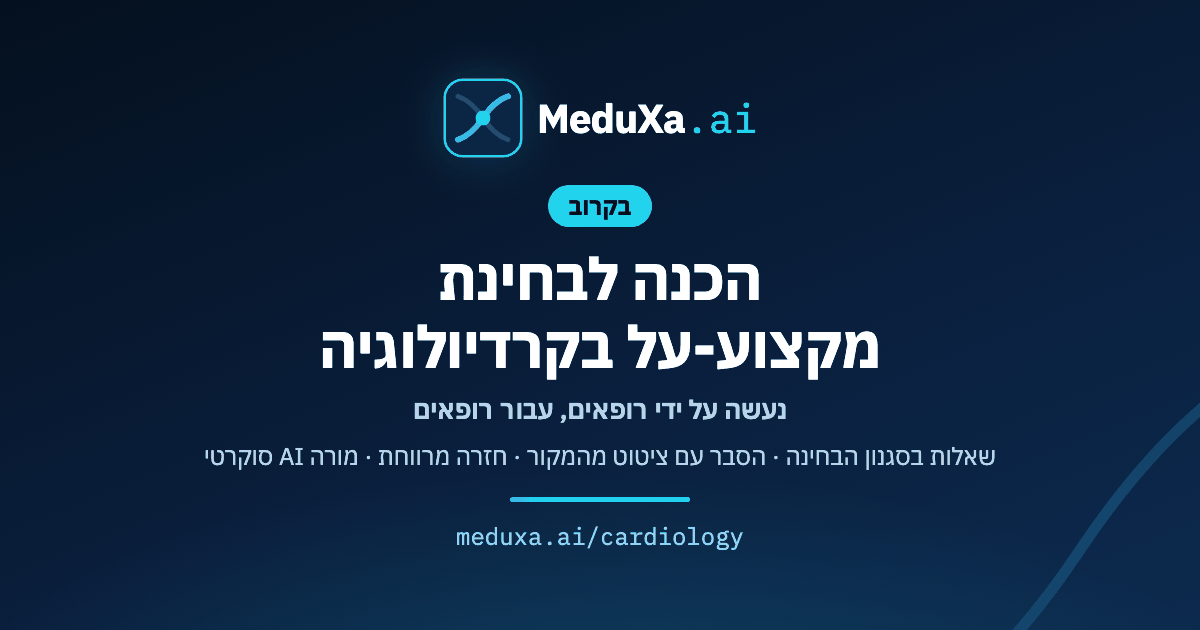
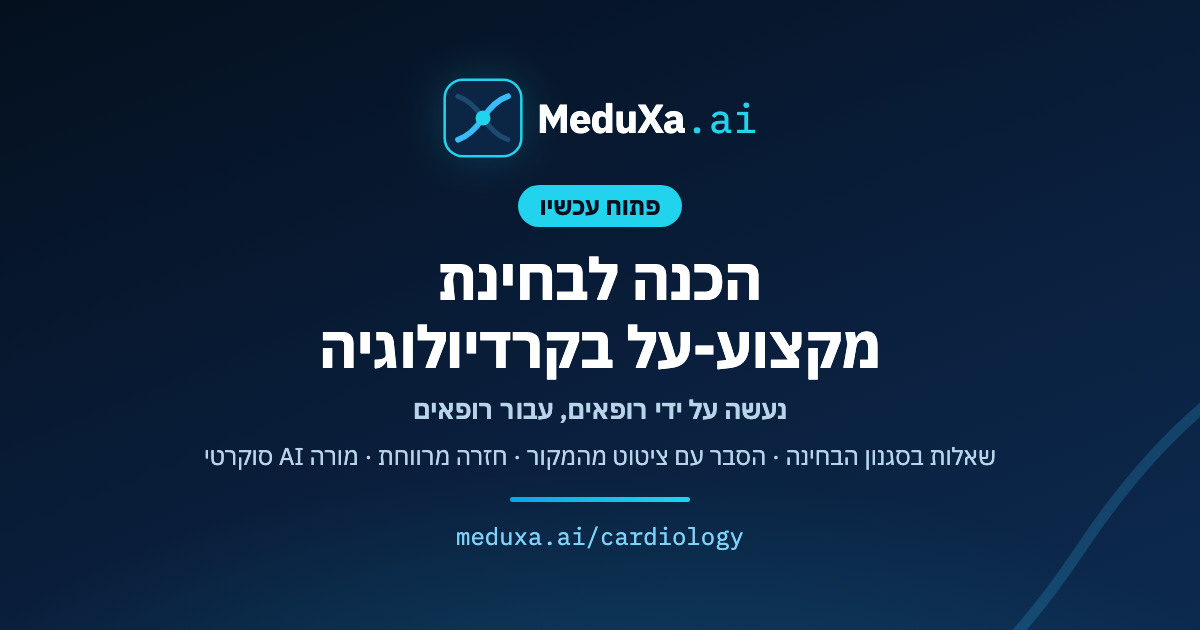
feat(cardiology): the cardiology track is live — parts A and B, free pilot
The app now serves cardiology (Stage A and Stage B), so the track flips from
"soon" to "live":
- tracks.json: status live, stage "חלקים א׳ וב׳", start-free action and an
  /en card link straight to sign-up; the exam line names part B's date
  (16.12.2026, IMA calendar) next to part A's countdown date.
- specialties/cardiology.json: live mode with app links in place of the
  waitlist form; no expert-review claim (questions are not all reviewed).
- render-specialties: a live page's sources speak in the present tense even
  without sample questions on the page.
- og/whatsapp promo images re-rendered with the "פתוח עכשיו" pill.
- Tests updated: cardiology leaves the soon lists and the closing line.

diff --git a/cardiology.html b/cardiology.html
@@ -12,32 +12,36 @@
      is served by the platform, so it 404s on a local static server. -->
 <script>
   window.va = window.va || function () { (window.vaq = window.vaq || []).push(arguments); };
-  // cardio_home_click: which link sent a visitor from this "coming soon" page back
-  // to the homepage (logo / nav). Cookieless like the rest of Vercel Analytics,
-  // so it counts regardless of the GA4/Clarity consent choice.
+  // cardio_app_click: which of the two "start" links (hero / closing) sent a
+  // visitor to the app. cardio_home_click: which link (logo / nav) sent them to
+  // the homepage. Cookieless like the rest of Vercel Analytics, so both count
+  // regardless of the GA4/Clarity consent choice.
   document.addEventListener('click', function (e) {
     var a = e.target && e.target.closest ? e.target.closest('a[data-cardio-cta]') : null;
-    if (a) window.va('event', { name: 'cardio_home_click', data: { placement: a.getAttribute('data-cardio-cta') } });
+    if (!a) return;
+    var placement = a.getAttribute('data-cardio-cta');
+    var toApp = placement === 'hero' || placement === 'closing';
+    window.va('event', { name: toApp ? 'cardio_app_click' : 'cardio_home_click', data: { placement: placement } });
   }, true);
 </script>
 <script defer src="/_vercel/insights/script.js"></script>
-<title>בקרוב: הכנה לבחינת מקצוע-על בקרדיולוגיה | MeduXa.ai</title>
+<title>הכנה לבחינת מקצוע-על בקרדיולוגיה | MeduXa.ai</title>
 <link rel="canonical" href="https://meduxa.ai/cardiology" />
-<meta name="description" content="בקרוב ב-MeduXa: הכנה לבחינת מקצוע-על בקרדיולוגיה. שאלות בסגנון הבחינה, הסבר עם ציטוט מהמקור ומורה AI סוקרטי. השאירו מייל ונעדכן כשזה נפתח." />
+<meta name="description" content="MeduXa: הכנה לבחינת מקצוע-על בקרדיולוגיה, חלק א׳ וחלק ב׳. שאלות בסגנון הבחינה, הסבר עם ציטוט מהמקור ומורה AI סוקרטי. פתוח עכשיו, אפשר להתחיל חינם." />
 <meta property="og:type" content="website" />
 <meta property="og:site_name" content="MeduXa.ai" />
-<meta property="og:title" content="בקרוב: הכנה לבחינת מקצוע-על בקרדיולוגיה | MeduXa.ai" />
-<meta property="og:description" content="שאלות בסגנון הבחינה, הסבר עם ציטוט מהמקור, חזרה מרווחת ומורה AI סוקרטי. השאירו מייל ונעדכן כשההכנה בקרדיולוגיה נפתחת." />
+<meta property="og:title" content="הכנה לבחינת מקצוע-על בקרדיולוגיה | MeduXa.ai" />
+<meta property="og:description" content="שאלות בסגנון הבחינה לחלק א׳ ולחלק ב׳, הסבר עם ציטוט מהמקור, מורה AI סוקרטי וחזרה מרווחת. פתוח עכשיו, אפשר להתחיל ללמוד חינם." />
 <meta property="og:url" content="https://meduxa.ai/cardiology" />
-<meta property="og:image" content="https://meduxa.ai/og-cardiology.png?v=1" />
+<meta property="og:image" content="https://meduxa.ai/og-cardiology.png?v=2" />
 <meta property="og:image:width" content="1200" />
 <meta property="og:image:height" content="630" />
-<meta property="og:image:alt" content="MeduXa.ai: בקרוב, הכנה לבחינת מקצוע-על בקרדיולוגיה" />
+<meta property="og:image:alt" content="MeduXa.ai: פתוח עכשיו, הכנה לבחינת מקצוע-על בקרדיולוגיה" />
 <meta property="og:locale" content="he_IL" />
 <meta name="twitter:card" content="summary_large_image" />
-<meta name="twitter:title" content="בקרוב: הכנה לבחינת מקצוע-על בקרדיולוגיה | MeduXa.ai" />
-<meta name="twitter:description" content="שאלות בסגנון הבחינה, הסבר עם ציטוט מהמקור, חזרה מרווחת ומורה AI סוקרטי. השאירו מייל ונעדכן כשההכנה בקרדיולוגיה נפתחת." />
-<meta name="twitter:image" content="https://meduxa.ai/og-cardiology.png?v=1" />
+<meta name="twitter:title" content="הכנה לבחינת מקצוע-על בקרדיולוגיה | MeduXa.ai" />
+<meta name="twitter:description" content="שאלות בסגנון הבחינה לחלק א׳ ולחלק ב׳, הסבר עם ציטוט מהמקור, מורה AI סוקרטי וחזרה מרווחת. פתוח עכשיו, אפשר להתחיל ללמוד חינם." />
+<meta name="twitter:image" content="https://meduxa.ai/og-cardiology.png?v=2" />
 <meta name="robots" content="index, follow" />
 <meta name="theme-color" content="#061225" />
 <meta name="color-scheme" content="dark" />
@@ -550,7 +554,7 @@
     </a>
     <div class="nav-r">
       <a class="nav-link" href="/" data-cardio-cta="nav">לעמוד הבית</a>
-      <a class="btn nav-cta" href="#signup">הרשמה לעדכון</a>
+      <a class="btn nav-cta" href="#start">התחילו ללמוד</a>
     </div>
   </div>
 </nav>
@@ -581,13 +585,13 @@
     </svg>
     <div class="wrap hero-grid">
       <div class="hero-copy">
-        <span class="chip enter" style="--i:0"><span class="live" aria-hidden="true"></span>בקרוב: קרדיולוגיה, מקצוע-על</span>
+        <span class="chip enter" style="--i:0"><span class="live" aria-hidden="true"></span>פתוח עכשיו: קרדיולוגיה, מקצוע-על</span>
         <h1 class="enter" style="--i:1"><span class="hero-stage">הכנה לבחינת מקצוע-על בקרדיולוגיה<span class="sr">:</span></span>הבחינה לא השתנתה.<br><span class="grad">הדרך להתכונן אליה, כן.</span></h1>
-        <p class="lead enter" style="--i:2"><strong>נעשה על ידי רופאים, עבור רופאים.</strong> שאלות בסגנון הבחינה, הסבר עם ציטוט מהמקור, ועדכון במייל כשההכנה נפתחת.</p>
-        <a class="btn hero-cta enter" style="--i:3" href="#signup">הרשמה לעדכון<i class="ph ph-arrow-left" aria-hidden="true"></i></a>
+        <p class="lead enter" style="--i:2"><strong>נעשה על ידי רופאים, עבור רופאים.</strong> שאלות בסגנון הבחינה לחלק א׳ ולחלק ב׳, הסבר עם ציטוט מהמקור, מורה סוקרטי וחזרה מרווחת.</p>
+        <a class="btn hero-cta enter" style="--i:3" href="https://app.meduxa.ai/?signup=1&amp;src=landing&amp;pl=cardio_hero" data-cardio-cta="hero">התחילו ללמוד — חינם<i class="ph ph-arrow-left" aria-hidden="true"></i></a>
         <div class="countdown enter" style="--i:4" data-exam-date="2026-12-15">
           <p class="cd-days" hidden><b data-days></b> <span data-cd-unit></span></p>
-          <p class="cd-exam">בחינה במקצוע-על — חלק א׳ · <span class="ltr-iso">15.12.2026</span></p>
+          <p class="cd-exam">בחינה במקצוע-על — חלק א׳ (חלק ב׳ למחרת, 16.12.2026) · <span class="ltr-iso">15.12.2026</span></p>
           <p class="cd-note"><a href="https://www.ima.org.il/Internship/Events.aspx" target="_blank" rel="noopener">לפי לוח הבחינות של הר״י · המועד עשוי להשתנות</a></p>
         </div>
       </div>
@@ -597,8 +601,8 @@
   <section class="sources" aria-labelledby="t-sources">
     <div class="wrap">
       <div class="sec-head" data-reveal>
-        <h2 id="t-sources">על מה יתבססו ההסברים</h2>
-        <p>המקורות המרכזיים שמהם יילקחו ההסברים והציטוטים בשאלות.</p>
+        <h2 id="t-sources">על מה מבוססים ההסברים</h2>
+        <p>המקורות המרכזיים שמהם לקוחים ההסברים והציטוטים בשאלות.</p>
       </div>
       <ul class="src-list" data-reveal style="--i:1">
         <li><i class="ph ph-book-open" aria-hidden="true"></i><span class="ltr-iso">Braunwald&#39;s Heart Disease 13e</span></li>
@@ -609,11 +613,11 @@
   </section>
 
   <section class="status" aria-labelledby="t-status">
-    <h2 id="t-status" class="sr">מה כבר קיים ומה נבנה עכשיו</h2>
+    <h2 id="t-status" class="sr">מה כבר קיים</h2>
     <div class="wrap status-grid">
       <div class="status-state" data-reveal>
         <div class="state done"><i class="ph ph-check-circle" aria-hidden="true"></i><div><h3>המנוע קיים ועובד</h3><p>מתמחים כבר מתכוננים איתו.</p></div></div>
-        <div class="state build"><i class="ph ph-hammer" aria-hidden="true"></i><div><h3>התוכן לקרדיולוגיה נבנה עכשיו</h3><p>השאירו מייל ונעדכן ברגע שזה נפתח.</p></div></div>
+        <div class="state done"><i class="ph ph-rocket-launch" aria-hidden="true"></i><div><h3>ההכנה לקרדיולוגיה פתוחה עכשיו</h3><p>פיילוט חינמי: חלק א׳ וחלק ב׳, באפליקציה.</p></div></div>
       </div>
       <p class="statement" data-reveal style="--i:1">שאלות בסגנון הבחינה, ולכל תשובה <em>הסבר שמגובה בציטוט מילה במילה מהמקור</em> שממנו היא נלקחה, כדי שתוכלו לבדוק כל טענה בעצמכם.</p>
     </div>
@@ -706,7 +710,7 @@
           <p>מצאתם טעות? מדווחים מתוך השאלה, ומקבלים חזרה עדכון מה נעשה.</p>
         </article>
       </div>
-      <p class="later"><i class="ph ph-clock" aria-hidden="true"></i><span><strong>בהמשך, לא ביום הפתיחה:</strong> ספריית שיעורים לפי נושאים ודו קרבות בין מתמחים.</span></p>
+      <p class="later"><i class="ph ph-clock" aria-hidden="true"></i><span><strong>בהמשך:</strong> דו קרבות בין מתמחים.</span></p>
     </div>
   </section>
 
@@ -734,31 +738,12 @@
     </div>
   </section>
 
-  <section id="signup" class="sec signup-band" aria-labelledby="t-signup">
-    <div class="wrap signup-grid">
+  <section id="start" class="sec signup-band" aria-labelledby="t-start">
+    <div class="wrap">
       <div class="signup-copy" data-reveal>
-        <span class="eyebrow" lang="en">EARLY ACCESS</span>
-        <h2 id="t-signup">הרשמה לעדכון: קרדיולוגיה</h2>
-        <p class="signup-for">ההרשמה היא ל<strong>הכנה לבחינת מקצוע-על בקרדיולוגיה</strong>. נכתוב לכם כשהיא נפתחת.</p>
-        <ul class="perks">
-          <li><i class="ph ph-envelope-simple" aria-hidden="true"></i><span>נכתוב לכם ברגע שההכנה בקרדיולוגיה נפתחת.</span></li>
-        </ul>
-      </div>
-      <div class="signup" data-reveal style="--i:1">
-        <!-- `required` inside a real <form> makes the browser block the submit
-             itself, so the handler never sees an unconsented address. -->
-        <form id="notifyForm">
-          <label class="field" for="notifyEmail">כתובת מייל
-            <input id="notifyEmail" dir="auto" type="email" required autocomplete="email" inputmode="email" placeholder="name@example.com">
-          </label>
-          <label class="consent" for="notifyConsent">
-            <input id="notifyConsent" type="checkbox" required>
-            <span>אני מאשר/ת שתשלחו לי עדכון במייל כשההכנה לבחינת מקצוע-על בקרדיולוגיה תיפתח.</span>
-          </label>
-          <button id="notifySubmit" class="btn" type="submit">עדכנו אותי</button>
-          <p class="notice">מסירת המייל היא מרצון ואינה חובה חוקית. הוא נשמר אצל ספק אחסון הנתונים שלנו (<span class="ltr-iso">Supabase</span>), משמש רק לעדכוני <span class="ltr-iso">MeduXa</span> ולא נמסר למפרסמים, ואפשר לבקש את מחיקתו בכל עת. הפרטים המלאים ב<a href="/privacy">מדיניות הפרטיות</a> וב<a href="/terms">תנאי השימוש</a>.</p>
-        </form>
-        <span id="notifyMsg" role="status" aria-live="polite"></span>
+        <h2 id="t-start">מוכנים להתחיל?</h2>
+        <p class="signup-for"><strong>הכנה לבחינת מקצוע-על בקרדיולוגיה</strong> פתוחה עכשיו באפליקציה.</p>
+        <a class="btn hero-cta" href="https://app.meduxa.ai/?signup=1&amp;src=landing&amp;pl=cardio_closing" data-cardio-cta="closing">התחילו ללמוד — חינם<i class="ph ph-arrow-left" aria-hidden="true"></i></a>
       </div>
     </div>
   </section>
@@ -993,66 +978,6 @@ function countdownState(days) {
     }, 250);
   })();
 
-  // "Notify me" → Supabase waitlist (insert-only via the publishable key; RLS
-  // blocks reads). source 'landing_cardio' marks these rows as cardiology
-  // sign-ups, apart from 'landing' (old homepage form) and 'app_door'/'app_gate'.
-  (function () {
-    var SUPA_URL = 'https://pappjpdsajkcoqrfqqqx.supabase.co';
-    var SUPA_KEY = 'sb_publishable_tV1q0WG7_bMLfsCIqOU1tA_PH8gZfCU';
-    var LABEL = 'עדכנו אותי';
-    var form = document.getElementById('notifyForm');
-    var email = document.getElementById('notifyEmail');
-    var consent = document.getElementById('notifyConsent');
-    var btn = document.getElementById('notifySubmit');
-    var msg = document.getElementById('notifyMsg');
-    var card = form.parentNode;
-    form.addEventListener('submit', function (e) {
-      e.preventDefault();
-      var val = (email.value || '').trim();
-      if (!val || !consent.checked) return;
-      btn.disabled = true; btn.innerHTML = '<span class="spin" aria-hidden="true"></span><span class="sr">שולחים</span>'; form.setAttribute('aria-busy', 'true');
-      if (msg.textContent) swapHeight(card, function () { msg.textContent = ''; msg.className = ''; });
-      fetch(SUPA_URL + '/rest/v1/waitlist', {
-        method: 'POST',
-        headers: { 'apikey': SUPA_KEY, 'Authorization': 'Bearer ' + SUPA_KEY,
-                   'Content-Type': 'application/json', 'Prefer': 'return=minimal' },
-        body: JSON.stringify({ email: val, locale: 'he', source: 'landing_cardio', consent_at: new Date().toISOString() })
-      }).then(function (r) {
-        if (!(r.ok || r.status === 409)) { var err = new Error('status ' + r.status); err.server = true; throw err; } // 409 = already listed
-        // Every bundle's early signup is a mark in waitlist.interests, so this
-        // page's list is simply interests ? 'cardiology'. Set it on a new
-        // row and on a 409 (the address is already listed from an earlier form;
-        // the email is unique). Best effort: a failure here must not turn a
-        // sign-up the person already has into an error on screen; the row's
-        // source 'landing_cardio' still identifies a new sign-up.
-        return fetch(SUPA_URL + '/rest/v1/rpc/waitlist_add_interest', {
-          method: 'POST',
-          headers: { 'apikey': SUPA_KEY, 'Authorization': 'Bearer ' + SUPA_KEY, 'Content-Type': 'application/json' },
-          body: JSON.stringify({ p_email: val, p_interest: 'cardiology' })
-        }).catch(function () {});
-      }).then(function () {
-        form.removeAttribute('aria-busy');
-        swapHeight(card, function () {
-          form.style.display = 'none';
-          msg.className = 'ok-box';
-          msg.innerHTML = '<i class="ph ph-check-circle" aria-hidden="true"></i><span></span>';
-          msg.lastChild.textContent = 'נרשמתם לעדכונים על קרדיולוגיה. נכתוב לכם כשההכנה לבחינת מקצוע-על נפתחת.';
-        });
-        if (typeof gtag === 'function') gtag('event', 'sign_up', { method: 'waitlist_cardiology' });
-        if (typeof window.va === 'function') window.va('event', { name: 'cardio_signup' });
-      }).catch(function (err) {
-        form.removeAttribute('aria-busy');
-        btn.disabled = false; btn.textContent = LABEL;
-        // A thrown fetch (offline, blocked) is not the address's fault.
-        swapHeight(card, function () {
-          msg.className = 'err';
-          msg.textContent = err && err.server
-            ? 'ההרשמה לא נשמרה. בדקו את כתובת המייל ונסו שוב.'
-            : 'לא הצלחנו להתחבר. בדקו את החיבור לאינטרנט ונסו שוב בעוד רגע.';
-        });
-      });
-    });
-  })();
 </script>
 </body>
 </html>

diff --git a/index.html b/index.html
@@ -848,7 +848,7 @@
           <a class="hero-track hero-track--live" href="#track-nephrology" data-track="nephrology" data-track-via="chip">נפרולוגיה</a>
           <a class="hero-track hero-track--soon" href="#track-family-medicine" data-track="family-medicine" data-track-via="chip">רפואת משפחה<svg class="hero-track-clock" width="13" height="13" viewBox="0 0 14 14" fill="none" aria-hidden="true"><circle cx="7" cy="7" r="5.6" stroke="currentColor" stroke-width="1.5"></circle><path d="M7 4.2V7l1.9 1.3" stroke="currentColor" stroke-width="1.5" stroke-linecap="round" stroke-linejoin="round"></path></svg><span class="hero-track-soon">· בקרוב</span></a>
           <a class="hero-track hero-track--soon" href="#track-pediatrics" data-track="pediatrics" data-track-via="chip">רפואת ילדים<svg class="hero-track-clock" width="13" height="13" viewBox="0 0 14 14" fill="none" aria-hidden="true"><circle cx="7" cy="7" r="5.6" stroke="currentColor" stroke-width="1.5"></circle><path d="M7 4.2V7l1.9 1.3" stroke="currentColor" stroke-width="1.5" stroke-linecap="round" stroke-linejoin="round"></path></svg><span class="hero-track-soon">· בקרוב</span></a>
-          <a class="hero-track hero-track--soon" href="#track-cardiology" data-track="cardiology" data-track-via="chip">קרדיולוגיה<svg class="hero-track-clock" width="13" height="13" viewBox="0 0 14 14" fill="none" aria-hidden="true"><circle cx="7" cy="7" r="5.6" stroke="currentColor" stroke-width="1.5"></circle><path d="M7 4.2V7l1.9 1.3" stroke="currentColor" stroke-width="1.5" stroke-linecap="round" stroke-linejoin="round"></path></svg><span class="hero-track-soon">· בקרוב</span></a>
+          <a class="hero-track hero-track--live" href="#track-cardiology" data-track="cardiology" data-track-via="chip">קרדיולוגיה</a>
           <!-- /tracks:chips -->
         </div>
         <div data-mq-stats style="display: grid; grid-template-columns: repeat(3, minmax(0, 1fr)); gap: 22px 24px; margin-top: 8px;">
@@ -963,11 +963,11 @@
           <p class="track-blurb">שאלות שנבדקו בידי רופא מומחה ברפואת ילדים, הסבר עם ציטוט מהמקור, ומחיר השקה לנרשמים מראש.</p>
           <a class="track-link track-link--soon" href="/pediatrics" data-track="pediatrics" data-track-via="card" aria-describedby="track-pediatrics-name"><span class="track-soon-btn">הרשמה לעדכון<svg class="track-arrow" width="14" height="14" viewBox="0 0 14 14" fill="none" aria-hidden="true"><path d="M2 7h9M7.5 3.5 11 7l-3.5 3.5" stroke="currentColor" stroke-width="1.8" stroke-linecap="round" stroke-linejoin="round"></path></svg></span></a>
         </article>
-        <article class="track track--soon" id="track-cardiology">
-          <div class="track-pills"><span class="track-pill">בקרוב</span></div>
-          <h3 class="track-name" id="track-cardiology-name">קרדיולוגיה <span class="track-stage">מקצוע-על, חלק א׳</span></h3>
-          <p class="track-blurb">שאלות בסגנון הבחינה, הסבר עם ציטוט מהמקור ומורה <span class="ltr-iso">AI</span> סוקרטי.</p>
-          <a class="track-link track-link--soon" href="/cardiology" data-track="cardiology" data-track-via="card" aria-describedby="track-cardiology-name"><span class="track-soon-btn">הרשמה לעדכון<svg class="track-arrow" width="14" height="14" viewBox="0 0 14 14" fill="none" aria-hidden="true"><path d="M2 7h9M7.5 3.5 11 7l-3.5 3.5" stroke="currentColor" stroke-width="1.8" stroke-linecap="round" stroke-linejoin="round"></path></svg></span></a>
+        <article class="track track--live" id="track-cardiology">
+          <div class="track-pills"><span class="track-pill track-pill--live"><svg class="track-pill-icon" width="12" height="12" viewBox="0 0 12 12" fill="none" aria-hidden="true"><path d="M2.5 6.2 5 8.6l4.5-5.2" stroke="currentColor" stroke-width="1.8" stroke-linecap="round" stroke-linejoin="round"></path></svg>פתוח עכשיו</span></div>
+          <h3 class="track-name" id="track-cardiology-name">קרדיולוגיה <span class="track-stage">מקצוע-על, חלקים א׳ וב׳</span></h3>
+          <p class="track-blurb">שאלות בסגנון הבחינה לחלק א׳ ולחלק ב׳, הסבר עם ציטוט מהמקור ומורה <span class="ltr-iso">AI</span> סוקרטי.</p>
+          <a class="track-link" href="/cardiology" data-track="cardiology" data-track-via="card" aria-describedby="track-cardiology-name"><span class="btn-action btn-action-md track-btn">התחילו ללמוד — חינם</span></a>
         </article>
         <!-- /tracks:cards -->
       </div>
@@ -1515,7 +1515,7 @@
       <p style="margin: 0; font-size: 18px; color: #475569; line-height: 1.65;">הצטרפו למתמחים שמתכוננים לבחינות בדרך מבוססת-המדע.</p>
       <a class="btn-action btn-action-lg" href="https://app.meduxa.ai/?signup=1&amp;src=landing&amp;pl=closing" data-cta="closing" style="border-radius: 12px; padding: 16px 34px; font-size: 18px; font-weight: 700; margin-top: 8px;">התחילו ללמוד — חינם</a>
       <!-- tracks:closing -->
-      <p class="pilot-tracks">מתכוננים לבחינה ברפואת משפחה, ברפואת ילדים או בקרדיולוגיה? <a href="#tracks">לפרטים ולהרשמה לעדכון</a></p>
+      <p class="pilot-tracks">מתכוננים לבחינה ברפואת משפחה או ברפואת ילדים? <a href="#tracks">לפרטים ולהרשמה לעדכון</a></p>
       <!-- /tracks:closing -->
     </div>
   </section>

diff --git a/en/index.html b/en/index.html
@@ -790,7 +790,7 @@
           <a class="hero-track hero-track--live" href="#track-nephrology" data-track="nephrology" data-track-via="chip">Nephrology</a>
           <a class="hero-track hero-track--soon" href="#track-family-medicine" data-track="family-medicine" data-track-via="chip">Family medicine<svg class="hero-track-clock" width="13" height="13" viewBox="0 0 14 14" fill="none" aria-hidden="true"><circle cx="7" cy="7" r="5.6" stroke="currentColor" stroke-width="1.5"></circle><path d="M7 4.2V7l1.9 1.3" stroke="currentColor" stroke-width="1.5" stroke-linecap="round" stroke-linejoin="round"></path></svg><span class="hero-track-soon">· soon</span></a>
           <a class="hero-track hero-track--soon" href="#track-pediatrics" data-track="pediatrics" data-track-via="chip">Pediatrics<svg class="hero-track-clock" width="13" height="13" viewBox="0 0 14 14" fill="none" aria-hidden="true"><circle cx="7" cy="7" r="5.6" stroke="currentColor" stroke-width="1.5"></circle><path d="M7 4.2V7l1.9 1.3" stroke="currentColor" stroke-width="1.5" stroke-linecap="round" stroke-linejoin="round"></path></svg><span class="hero-track-soon">· soon</span></a>
-          <a class="hero-track hero-track--soon" href="#track-cardiology" data-track="cardiology" data-track-via="chip">Cardiology<svg class="hero-track-clock" width="13" height="13" viewBox="0 0 14 14" fill="none" aria-hidden="true"><circle cx="7" cy="7" r="5.6" stroke="currentColor" stroke-width="1.5"></circle><path d="M7 4.2V7l1.9 1.3" stroke="currentColor" stroke-width="1.5" stroke-linecap="round" stroke-linejoin="round"></path></svg><span class="hero-track-soon">· soon</span></a>
+          <a class="hero-track hero-track--live" href="#track-cardiology" data-track="cardiology" data-track-via="chip">Cardiology</a>
           <!-- /tracks:chips -->
         </div>
         <div data-mq-stats style="display: grid; grid-template-columns: repeat(3, minmax(0, 1fr)); gap: 22px 24px; margin-top: 8px;">
@@ -905,11 +905,11 @@
           <p class="track-blurb">Questions checked by a pediatrics specialist, answers explained with a quote from the source, and launch pricing for early sign-ups.</p>
           <a class="track-link track-link--soon" href="/pediatrics" data-track="pediatrics" data-track-via="card" hreflang="he" aria-describedby="track-pediatrics-name track-pediatrics-lang"><span class="track-soon-btn">Get notified<svg class="track-arrow" width="14" height="14" viewBox="0 0 14 14" fill="none" aria-hidden="true"><path d="M2 7h9M7.5 3.5 11 7l-3.5 3.5" stroke="currentColor" stroke-width="1.8" stroke-linecap="round" stroke-linejoin="round"></path></svg></span></a>
         </article>
-        <article class="track track--soon" id="track-cardiology">
-          <div class="track-pills"><span class="track-pill">Coming soon</span><span class="track-pill" id="track-cardiology-lang">Hebrew content</span></div>
-          <h3 class="track-name" id="track-cardiology-name">Cardiology <span class="track-stage">Sub-specialty, part A</span></h3>
-          <p class="track-blurb">Exam-style questions, answers explained with a quote from the source, and a Socratic <span class="ltr-iso">AI</span> tutor.</p>
-          <a class="track-link track-link--soon" href="/cardiology" data-track="cardiology" data-track-via="card" hreflang="he" aria-describedby="track-cardiology-name track-cardiology-lang"><span class="track-soon-btn">Get notified<svg class="track-arrow" width="14" height="14" viewBox="0 0 14 14" fill="none" aria-hidden="true"><path d="M2 7h9M7.5 3.5 11 7l-3.5 3.5" stroke="currentColor" stroke-width="1.8" stroke-linecap="round" stroke-linejoin="round"></path></svg></span></a>
+        <article class="track track--live" id="track-cardiology">
+          <div class="track-pills"><span class="track-pill track-pill--live"><svg class="track-pill-icon" width="12" height="12" viewBox="0 0 12 12" fill="none" aria-hidden="true"><path d="M2.5 6.2 5 8.6l4.5-5.2" stroke="currentColor" stroke-width="1.8" stroke-linecap="round" stroke-linejoin="round"></path></svg>Open now</span></div>
+          <h3 class="track-name" id="track-cardiology-name">Cardiology <span class="track-stage">Sub-specialty, parts A and B</span></h3>
+          <p class="track-blurb">Exam-style questions for parts A and B, answers explained with a quote from the source, and a Socratic <span class="ltr-iso">AI</span> tutor.</p>
+          <a class="track-link" href="https://app.meduxa.ai/?signup=1&amp;src=landing&amp;pl=cardio_card" data-track="cardiology" data-track-via="card" data-cta="hero" aria-describedby="track-cardiology-name"><span class="btn-action btn-action-md track-btn">Start studying free</span></a>
         </article>
         <!-- /tracks:cards -->
       </div>
@@ -1444,7 +1444,7 @@
       <p style="margin: 0; font-size: 18px; color: #475569; line-height: 1.65;">Join residents preparing for their boards the science-backed way.</p>
       <a class="btn-action btn-action-lg" href="https://app.meduxa.ai/?signup=1&amp;src=landing&amp;pl=closing" data-cta="closing" style="border-radius: 12px; padding: 16px 34px; font-size: 18px; font-weight: 700; margin-top: 8px;">Start studying free</a>
       <!-- tracks:closing -->
-      <p class="pilot-tracks">Preparing for an exam in family medicine, pediatrics or cardiology? <a href="#tracks">Details and updates</a></p>
+      <p class="pilot-tracks">Preparing for an exam in family medicine or pediatrics? <a href="#tracks">Details and updates</a></p>
       <!-- /tracks:closing -->
     </div>
   </section>
